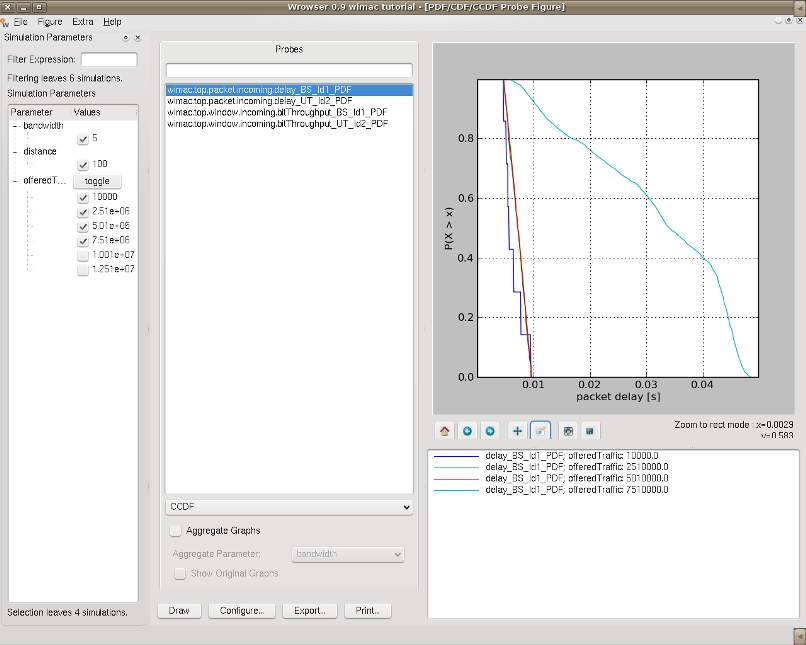
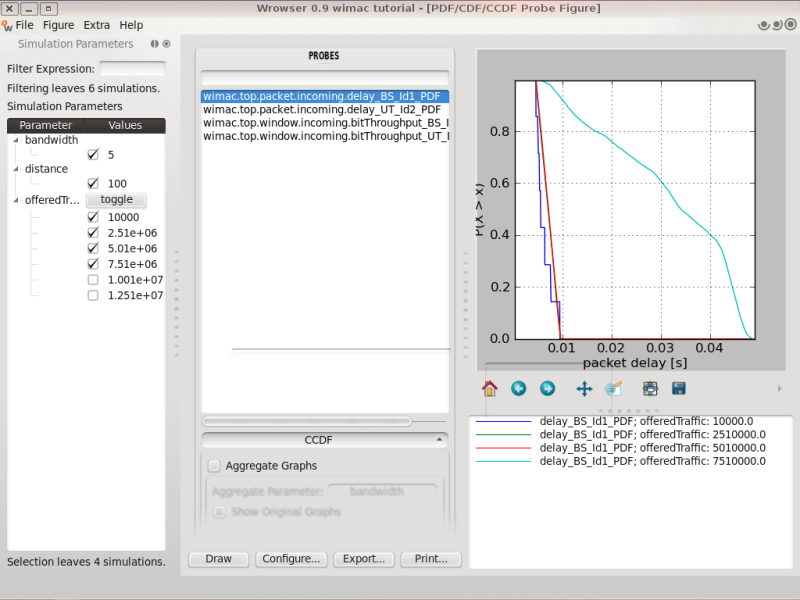
update of figures in wimac tutorial

diff --git a/usersGuide/modules/dll/wimac/experiment1.rst b/usersGuide/modules/dll/wimac/experiment1.rst
@@ -3,11 +3,11 @@ Experiment 1: Saturation Throughput
 ###########################################
 
 In the first experiment, we will setup a very simple simulation campaign, run the
-simulations and evaluate the results.
+simulations and evaluate the results while learning the basic parts of the WiMAC configurations.
 
-In the following, we will assume that ``myFirstCampaign`` is the root directory 
+In the following, we will assume that ``myWiMAXCampaign`` is the root directory 
 of the simulation campaign, created as described in the previous section, and 
-``myFirstCampaign/experiment1`` is the directory where the simulations are stored.
+``myWiMAXCampaign/experiment1`` is the directory where the simulations are stored.
 
 In the beginning, this directory contains only the following files:
 
@@ -16,11 +16,10 @@ In the beginning, this directory contains only the following files:
    $ ls
    campaignConfiguration.py   simcontrol.py
 
-``simcontrol.py`` is used to manage the simulation, i.e. to create the
-scenarios, execute the simulations (either locally or in a
-distributed grid, if available) and presenting information about the
-current status. ``campaignConfiguration.py`` contains the parameters
-which shall be simulated.
+``simcontrol.py`` is used to manage the simulation, i.e. to create the scenarios,
+execute the simulations (either locally or in a distributed grid, if available) 
+and presenting information about the current status. ``campaignConfiguration.py``
+contains the parameters which shall be simulated.
 
 
 
@@ -30,7 +29,7 @@ Experiment 1 - Offered Traffic (part 1)
 
 The first scenario is kept as simple as possible:
 One Base Station (BS) and one Mobile Station (MS) transmit data in uplink and downlink,
-within a distance d.
+within a distance `d`.
 
 1. In this simulation, we would like to measure the saturation throughput
    in downlinnk and uplink. Accordingly, we need to create a
@@ -43,7 +42,8 @@ within a distance d.
       this one is the same for all simulations.
 
    #. Create the parameter file, :ref:`experiment1FirstCampaignConfig` - this one
-      contains the parameters that differentiate the simulations from each other, i.e. the different offered traffic in our case.
+      contains the parameters that differentiate the simulations from each other,
+      i.e. the different offered traffic in our case.
 
    #. Run the simulations using :ref:`experiment1FirstSimcontrol`.
 
@@ -57,19 +57,19 @@ within a distance d.
 Config.py
 ---------
 
-To complete the campaign, a configuration file ``config.py`` is
-required that configures the scenario, nodes and the evaluation. For
-the first experiment, a config.py can be found in
-``myOpenWNS/tests/system/WiMAC-Tests--main--1.2/PyConfig/experiment1/``, this
-file needs to be copied into the simulations directory
-(``myFirstCampaign/experiment1``):
+To complete the campaign, a configuration file ``config.py`` is required that 
+configures the scenario, stations and the evaluation. For the first experiment, a 
+config.py can be found in 
+``myOpenWNS/tests/system/WiMAC-Tests--main--1.2/PyConfig/experiment1/``, this 
+file needs to be copied into the simulations directory 
+(``myWiMAXCampaign/experiment1``):
 
 .. code-block:: bash
 
    $ cp ../../myOpenWNS/tests/system/WiMAC-Tests--main--1.2/configTutorial/experiment1/config.py .
 
-Take a look at the first lines of the configuration file ``config.py``
-and you can see how to adjust the parameters of this scenario:
+Take a look at the first lines of the configuration file ``config.py`` and you 
+can see how to adjust the parameters of this scenario:
 
 .. literalinclude:: ../../../../../.createManualsWorkingDir/wimac.tutorial.experiment1.config.simulationParameter
    :language: python
@@ -120,8 +120,10 @@ Next, an instance with the same name as in the ``config.py`` is created:
 .. literalinclude:: ../../../../../.createManualsWorkingDir/wimac.tutorial.experiment1.campaignConfiguration.params
    :language: python
 
-The class ``Set`` contains the function ``setDefaults()``. Calling this functions,
-default values are defined for all parameters.
+test
+
+.. The class ``Set`` contains the function ``setDefaults()``. Calling this functions,
+   default values are defined for all parameters.
 
 Then, the parameters in ``params`` can be populated with different values. Each 
 time the ``write()`` member function (inherited from the class ``Parameters``) is
@@ -131,7 +133,7 @@ called, the current values are fixed and represent one simulation:
    :language: python
 
 With this setup, 6 simulations are created, differentiated by the
-offered downlink traffic between 0.1 and 12.1 Mb/s. This concludes the file 
+offered downlink traffic between 0.01 and 12.6 Mb/s. This concludes the file 
 ``campaignConfiguration.py``.
 
 .. _experiment1FirstSimcontrol:
@@ -200,18 +202,25 @@ After this test, the simulations can be run one-by-one using the ``simcontrol.py
 
 This starts the serial execution of all defined scenarios. In a "production" 
 environment, a grid engine could be used to queue all simulations and run them
-in parallel; the script is configured to work together with the SunGridEngine_
-e.g. with the command instead:
+in parallel [#]_; the script is configured to work together with the SunGridEngine_
+e.g. with the command instead ::
 
 .. code-block:: bash
    $ ./simcontrol.py --execute-scenarios --restrict-state=NotQueued
 
-Optionally, if you use the SunGridEngine_, you can modify the ``simcontrol.py``
-in order boost the priority of our simulations by editing the ``estimated cpu time``
-from 100 hours to 1h in the following line:
 
-. literalinclude:: ../../../../../.createManualsWorkingDir/wimac.tutorial.experiment1.simcontrol.cpuTime
-   :language: python
+
+.. rubric:: Footnotes
+
+.. [#] Optionally, if you use the SunGridEngine_, you can modify the ``simcontrol.py``
+       in order boost the priority of our simulations by editing the ``estimated cpu time``
+       from ther default value of 100 hours to 1h in the following line::
+
+        parser.add_option('-t', '--cpu-time',
+                        type = 'int', dest = 'cpuTime', default = *1*,
+                        help = 'chose time for jobs in hours (default: 100h)', metavar = 'HOURS')
+
+
 
 The installation and configuration of this grid is out of the scope of this tutorial.
 
@@ -279,7 +288,7 @@ Wrowser needs to get, for all six simulations, the throughput, combine it with
 the offered traffic parameter and draw this to a graph. This type of combination
 plot is named "Parameter Plot" in the Wrowser. We select Figure -> New -> Parameter.
 In the new window, the simulation parameter has to be set to ``offeredTraffic``,
-this will be displayed in the x-axis. For the y-axis, we select ``wimac.top.window.aggregated.bitThroughput_BS_Moments``
+this will be displayed in the x-axis. For the y-axis, we select ``wimac.top.window.incoming.bitThroughput_BS_Id1_PDF.dat``
 [#]_ and select ``Draw`` in the bottom to see a figure as in :ref:`figure-wimac-experiment1-wrowser-throughput`.
 
 .. rubric:: Footnotes
@@ -295,17 +304,18 @@ this will be displayed in the x-axis. For the y-axis, we select ``wimac.top.wind
 
    Throughput plot
 
-In the new figure, we should see that the traffic has reached the saturation point at 7.5 Mb/s.
+In the new figure, we should see that the traffic has reached the saturation
+point at 7.3 Mb/s.
 
 Another interesting figure is the relation of offered traffic versus the packet 
 delay, evaluated as a probability function. This can be done by choosing a 
-``PDF/CDF/CCDF`` graph in the ``Figure`` menu and plotting the probe `` 
-wimac.top.packet.incoming.delay_BS_Id1_PDF. 
+``PDF/CDF/CCDF`` graph in the ``Figure`` menu and plotting the probe 
+``wimac.top.packet.incoming.delay_BS_Id1_PDF`` 
 
 The Packet Delay is only meaningful in underload, because the infinite delay of 
 lost or droped packets in overload is not considered in this metric. From the 
-previous figure we can derive the saturation throughput of 7.5 Mb/s. Therefore 
-we deselect the last two simulations with a  ``offeredTraffic`` beyond 7.5Mb/s. 
+previous figure we can derive the saturation throughput. Therefore 
+we deselect the last two simulations with a  ``offeredTraffic`` beyond 7.3Mb/s. 
 In the ``Configure Graph`` menu which called with the botton next to ''Draw'' 
 button, we select the ``Line markers`` as ``None``
 
@@ -322,7 +332,7 @@ button, we select the ``Line markers`` as ``None``
 we can see that the probability for a higher delay increases as the offered traffic increases, see 
 
 
-:ref:`figure-wimac-experiment1-wrowser-delay`.
+:ref:`figure-wimac-experiment1-wrowser-uplink-delay`.
 
 .. _figure-wimac-experiment1-wrowser-uplink-delay:
 
@@ -340,7 +350,7 @@ Details
 So far, we have just used the prepared ``config.py``, without the knowledge how
 it generates the simulation scenario. In the following sections, we will go step
 by step through the different parts of the ``config.py`` and learn what is neccessary
-to setup the scenario and how the WiMAC modul can be parameterized.
+to setup the scenario and the WiMAC modul.
 
 
 
@@ -380,8 +390,8 @@ Namely, we import
 
 * The random number generator
 
-* The simulator core ``openwns``, which inlcudes e.g. classes to define dB, dBm 
-  and an interval.
+* The simulator core ``openwns``, which inlcudes different types of lybaries e.g.
+  classes to define dB, dBm and an interval.
 
 * The scenario package to define the radio environment.
 
@@ -391,10 +401,8 @@ Namely, we import
 
   - The support package that allows the generation of stations and transceivers 
     for the stations.
-  - The pathselection package (used for IMT-Advanced scenarios, but required in 
-    all scenarios as every BS registers itself and its associated MSs) (within 
-    helpers.py)
-  - The traffic load (within helpers.py)
+  - The path selection package (e.g. within  wimac.support.helpers.py)
+  - The traffic load (within  wimac.support.helpers.py)
   - The evaluation structure for the wimac
 
 
@@ -428,13 +436,14 @@ creation of the scenario instance is done by using the scenario and wimac module
 .. literalinclude:: ../../../../../.createManualsWorkingDir/wimac.tutorial.experiment1.config.scenario
    :language: python
 
-The positions of the stations can be defined busing the placers which garantue a 
-specific distribution of the positions. Here, the positions of the BSs comply a 
-hexagonal grid with the chosen number of rings ``numberOfCircles`` around a center
-cell. All positions of the MSs are on a line according to the position list 
-``positionList``. Because we only study a scenario with one BS and one MS we chose
-``numberOfCircles`` and ``numberOfNodes`` equal to one. The different types of placers
-can be chosen from the pytho classes in the path ``myOpenWNS/framework/scenarios/PyConfig/scenarios/placer/``
+The positions of the stations can be defined by using the placers. (e.g. 
+``HexagonalPlacer``, ``LinearPlacer``) which garantue a specific distribution of
+the positions. Here, the positions of BSs comply a hexagonal grid with the 
+chosen number of rings ``numberOfCircles`` around a center cell. All positions 
+of MSs are on a line according to the position list ``positionList``. Because we 
+only study a scenario with one BS and one MS we chose ``numberOfCircles`` and 
+``numberOfNodes`` equal to one. The different types of placers can be chosen 
+from the pytho classes in the path ``myOpenWNS/framework/scenarios/PyConfig/scenarios/placer/``
 
 Next, the antenna type of the BS is defined with a position offset relative to the
 BS positions. This is required because more than one antenna per BS is possible. 
@@ -482,7 +491,7 @@ Experiment 1 - Bandwidth (part 2)
 ************************************* 
 
 2. Find the impact of increased ``bandwidth`` from 5MHz to 10 and 20 MHz on the 
-   saturation throughputs by editing the ``campaignConfiguration.py`` and ``config.py``.
+   saturation throughputs by editing the ``campaignConfiguration.py``. and ``config.py``.
 
    a. Change the static setting in ``config.py`` to a variable parameter that gets
       its value from the imported instance ``params``.
@@ -491,15 +500,16 @@ Experiment 1 - Bandwidth (part 2)
       As existing simulations do not have this parameter, but have used 5MHz, we
       add this as the default value by specifying::
 
-        bandwidth= Int(default=5)
+            bandwidth = Int(default = 5)
 
    #. Add an outer for-loop to the existing one to vary the bandwidth between 5 and 20 MHz::
 
-        for rate in [0,10,15,30,35]:
-           for params.bandwidth in [5,10,20]:
-             params.offeredTraffic = (0.001 + rate) * 1e6
-             params.write()
-   
+            for rate in [0,10,15,30,35]:
+                for params.bandwidth in [5,10,20]:
+                    params.offeredTraffic = (0.001 + rate) * 1e6
+                    params.write() 
+
+
    #. It is not necessary to delete existing scenarios, ``simcontrol.py`` will
       automatically identify the missing simulations and create them when told so.
       Everytime you modify the campaign parameters, first call ``simcontrol.py --create-database``
@@ -525,14 +535,14 @@ Experiment 1 - Distance (part 3)
       ``campaignConfiguration.py``. As existing simulations do not
       have this parameter, but have used 100m, we add this as the default value by specifying::
 
-         distance= Int(default=100)
+            distance= Int(default=100)
 
    #. Add an outer for-loop to the existing one to vary the distance between 100m and 12000 m::
 
-      	 for params.packetSize in [1480*8, 80*8]:
-	     for i in xrange(1, 21):
-    	     	 params.offeredTraffic = i * 1000000
-  		 params.write()
+            params.offeredTraffic = 10.01e6
+            for dist in xrange(1,7):
+                params.distance = dist * 2000
+                params.write()
 
    #. Create the simulations (in the database and the scenarios) and execute them.
 

diff --git a/usersGuide/modules/dll/wimac/WiMAC.rst b/usersGuide/modules/dll/wimac/WiMAC.rst
@@ -8,13 +8,14 @@ WiMAC Tutorial
    :maxdepth: 1
    :glob:
 
-   What_is_new
-   Functional_Unit_Network_(FUN)
-   Scheduler
-   Probes
    experiment1
    experiment2
    experiment3
    experiment4
    experiment5
+   
+   What_is_new
+   Functional_Unit_Network_(FUN)
+   Scheduler
+   Probes
    What_is_missing
